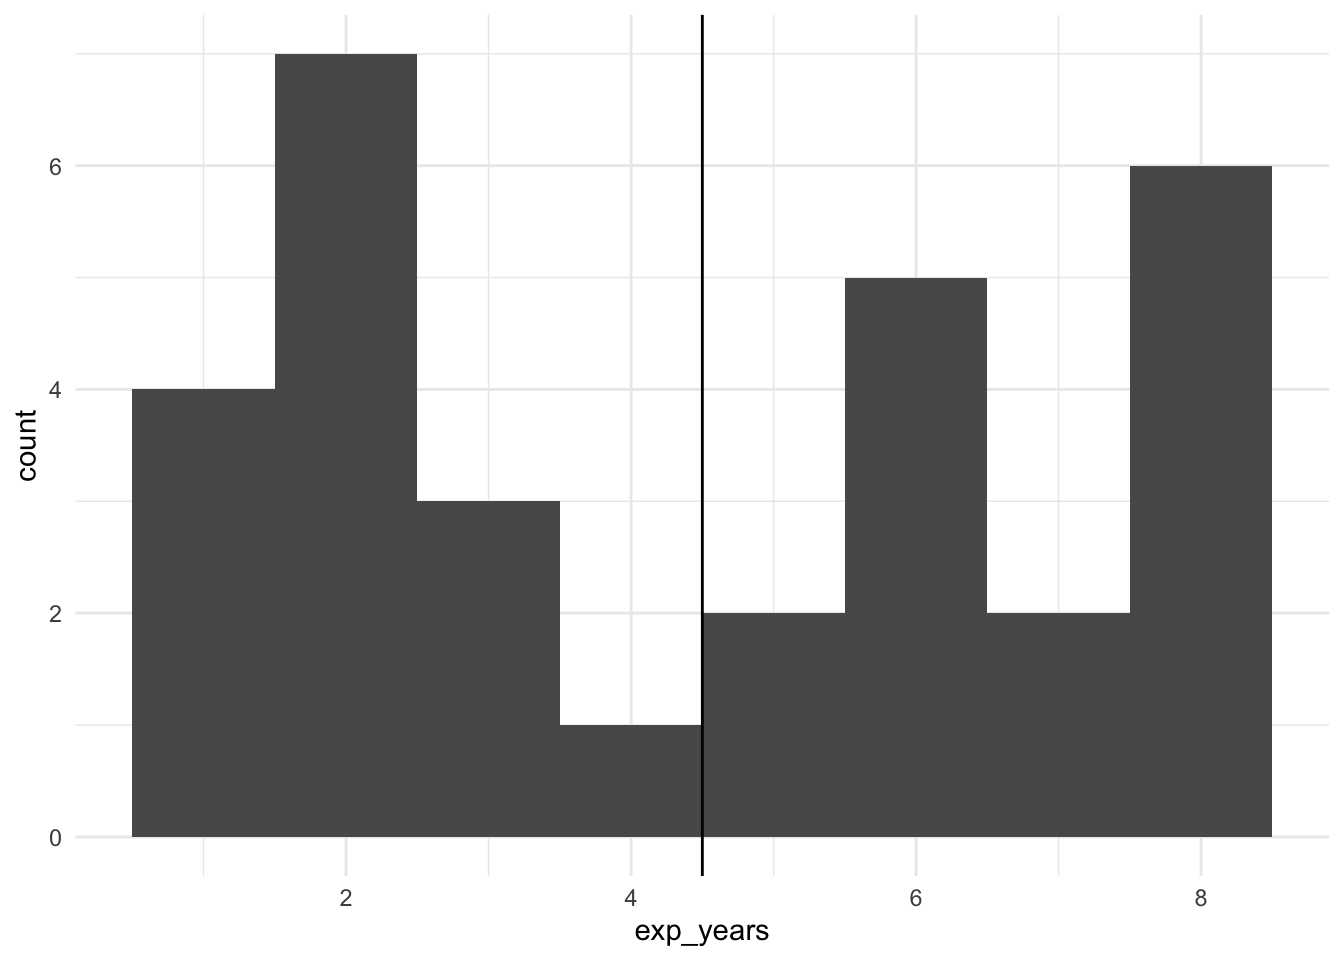
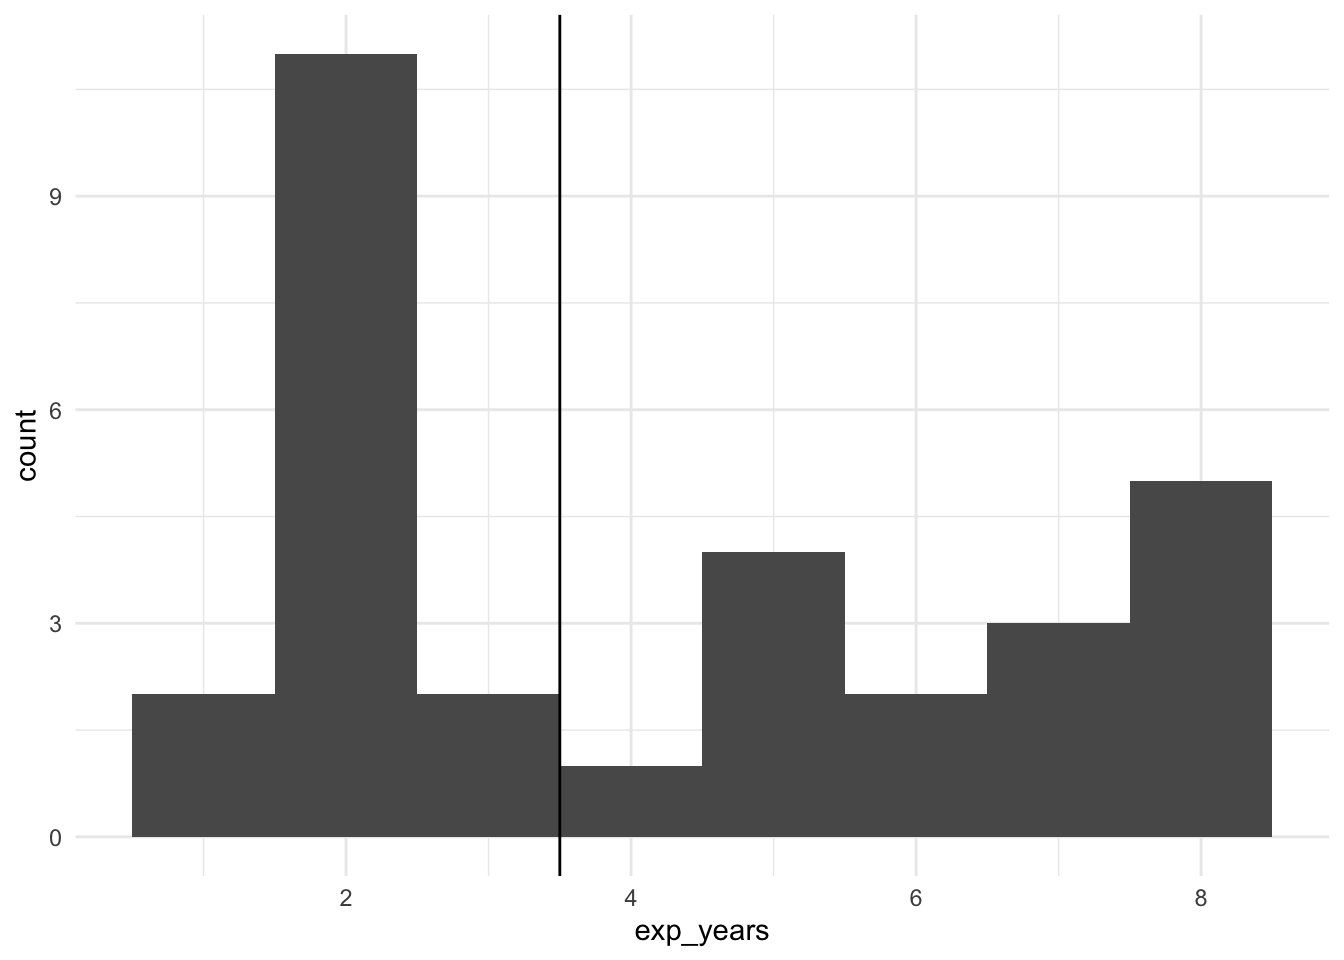
dsds

diff --git a/docs/descriptives.html b/docs/descriptives.html
@@ -359,11 +359,13 @@ code span.wa { color: #60a0b0; font-weight: bold; font-style: italic; } /* Warni
 <h2><span class="header-section-number">6.1</span> Описательные визуализации<a href="descriptives.html#descriptive_vis" class="anchor-section" aria-label="Anchor link to header"></a></h2>
 <p>Мы уже обсуждали два важных графика – гистограмму и график плотности вероятности – когда говорили про распределения. Эти графики стоит строить каждый раз, когда мы хотим поисследовать эмпирически полученные данные методами описательной статистики. Такого термина, кажется, официально не существует, но я называю эти графики также описательными.</p>
 <p>Например, мы строили их для данных про эмоциональное выгорание:</p>
+<p>Для визуализации порядковой переменной Опыта преподавания <em>exp_scaled</em></p>
 <div class="sourceCode" id="cb1"><pre class="sourceCode r"><code class="sourceCode r"><span id="cb1-1"><a href="descriptives.html#cb1-1" tabindex="-1"></a>burnout <span class="sc">%&gt;%</span> </span>
-<span id="cb1-2"><a href="descriptives.html#cb1-2" tabindex="-1"></a>  <span class="fu">ggplot</span>(<span class="fu">aes</span>(<span class="at">x=</span>exp_years)) <span class="sc">+</span></span>
-<span id="cb1-3"><a href="descriptives.html#cb1-3" tabindex="-1"></a>  <span class="fu">geom_histogram</span>(<span class="at">binwidth =</span> <span class="dv">1</span>) <span class="sc">+</span></span>
+<span id="cb1-2"><a href="descriptives.html#cb1-2" tabindex="-1"></a>  <span class="fu">ggplot</span>(<span class="fu">aes</span>(<span class="at">x=</span>exp_scaled)) <span class="sc">+</span></span>
+<span id="cb1-3"><a href="descriptives.html#cb1-3" tabindex="-1"></a>  <span class="fu">geom_bar</span>() <span class="sc">+</span></span>
 <span id="cb1-4"><a href="descriptives.html#cb1-4" tabindex="-1"></a>  <span class="fu">theme_minimal</span>()</span></code></pre></div>
 <p><img src="StatsForDA_files/figure-html/unnamed-chunk-2-1.png" width="672" /></p>
+<p>Для визуализации количественной переменной Возраст <em>age</em> (шкала отношений)</p>
 <div class="sourceCode" id="cb2"><pre class="sourceCode r"><code class="sourceCode r"><span id="cb2-1"><a href="descriptives.html#cb2-1" tabindex="-1"></a>burnout <span class="sc">%&gt;%</span> </span>
 <span id="cb2-2"><a href="descriptives.html#cb2-2" tabindex="-1"></a>  <span class="fu">ggplot</span>(<span class="fu">aes</span>(<span class="at">x=</span>age)) <span class="sc">+</span></span>
 <span id="cb2-3"><a href="descriptives.html#cb2-3" tabindex="-1"></a>  <span class="fu">geom_density</span>() <span class="sc">+</span></span>
